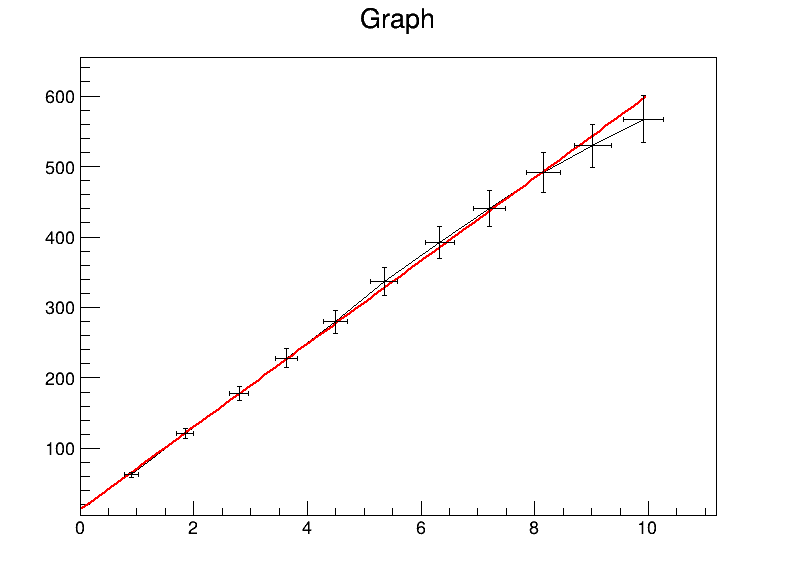
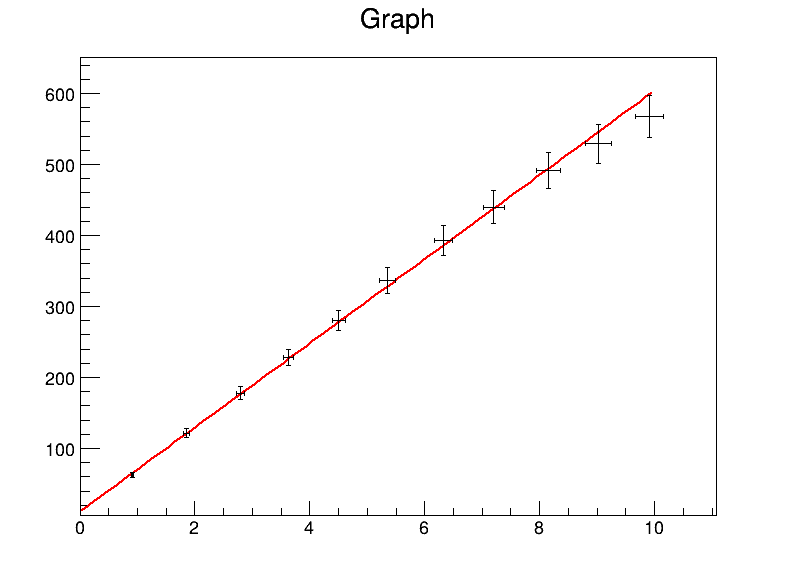
primi fit

diff --git a/LAB_struttura/calibrazione_magnete_prima_discesa.C b/LAB_struttura/calibrazione_magnete_prima_discesa.C
@@ -1,0 +1,89 @@
+#include<iostream>
+#include "TGraphErrors.h"
+#include "TCanvas.h"
+#include<vector>
+#include "TF1.h"
+
+using namespace std;
+
+
+
+void calibrazione_magnete_prima_discesa(){
+    vector<double> corrente={
+        0,
+        9.93,
+        8.96,
+        8.11,
+        7.27,
+        6.33,
+        5.44,
+        4.6,
+        3.59,
+        2.7,
+        1.72,
+        0.94,
+    };
+    vector<double> B={
+        8.8,
+        565.8,
+        529.7,
+        487.9,
+        441,
+        394.8,
+        343.6,
+        293.4,
+        232.2,
+        180.5,
+        119.5,
+        70.8,
+    };
+    //
+    //errori
+    vector<double> err_corrente={
+        0.000001,
+        0.24825,
+        0.224,
+        0.20275,
+        0.18175,
+        0.15825,
+        0.136,
+        0.115,
+        0.08975,
+        0.0675,
+        0.043,
+        0.0235,
+    };
+    vector<double> err_B={
+        0.54,
+        29.29,
+        27.485,
+        25.395,
+        23.05,
+        20.74,
+        18.18,
+        14.77,
+        11.71,
+        9.125,
+        6.075,
+        3.64,
+            };
+
+    //
+    int len= corrente.size();
+    TGraphErrors* gr1= new TGraphErrors(len, corrente.data(), B.data(), err_corrente.data(), err_B.data());
+    //
+    TCanvas* c1= new TCanvas("c1", "rampe calibrazione", 800, 600);
+
+    TF1* fit= new TF1("fit", "[0]+[1]*x", 0, 10);
+
+
+    gr1->SetMarkerStyle(20);
+   gr1->Fit("fit", "R");
+    gr1->SetMinimum(-10);
+    gr1->Draw("AP.");
+    c1->Print("prima_discesa.png", "png");
+    cout<<"il pvalue è "<< fit->GetProb() <<endl;
+
+
+
+}

diff --git a/LAB_struttura/calibrazione_magnete.C b/LAB_struttura/calibrazione_magnete.C
@@ -38,30 +38,30 @@ void calibrazione_magnete(){
     //
     //errori
     vector<double> err_corrente={
-        0.12275,
-        0.14625,
-        0.17,
-        0.19075,
-        0.2125,
-        0.23375,
-        0.25825,
-        0.28,
-        0.30375,
-        0.3255,
-        0.34775,
+       0.02275,
+        0.04625,
+        0.07,
+        0.09075,
+        0.1125,
+        0.13375,
+        0.15825,
+        0.18,
+        0.20375,
+        0.2255,
+        0.24775,
     };
     vector<double> err_B={
-      3.64733807622972,
-        7.0395770023178,
-        10.3216594772084,
-        13.2164550605202,
-        16.2266250321916,
-        19.5208826937935,
-        22.7733968580994,
-        25.4983195982488,
-        28.4899369044554,
-        30.6988636363637,
-        32.8961949523565,
+     3.2455,
+        6.171,
+        9.0015,
+        11.498,
+        14.094,
+        17.835,
+        20.64,
+        22.99,
+        25.57,
+        27.475,
+        29.37,
             };
 
     //
@@ -75,7 +75,7 @@ void calibrazione_magnete(){
 
 
     gr1->Fit("fit", "R");
-    gr1->Draw();
+    gr1->Draw("AP.");
     c1->Print("prima_salita.png", "png");
     cout<<"il pvalue è "<< fit->GetProb() <<endl;
 
